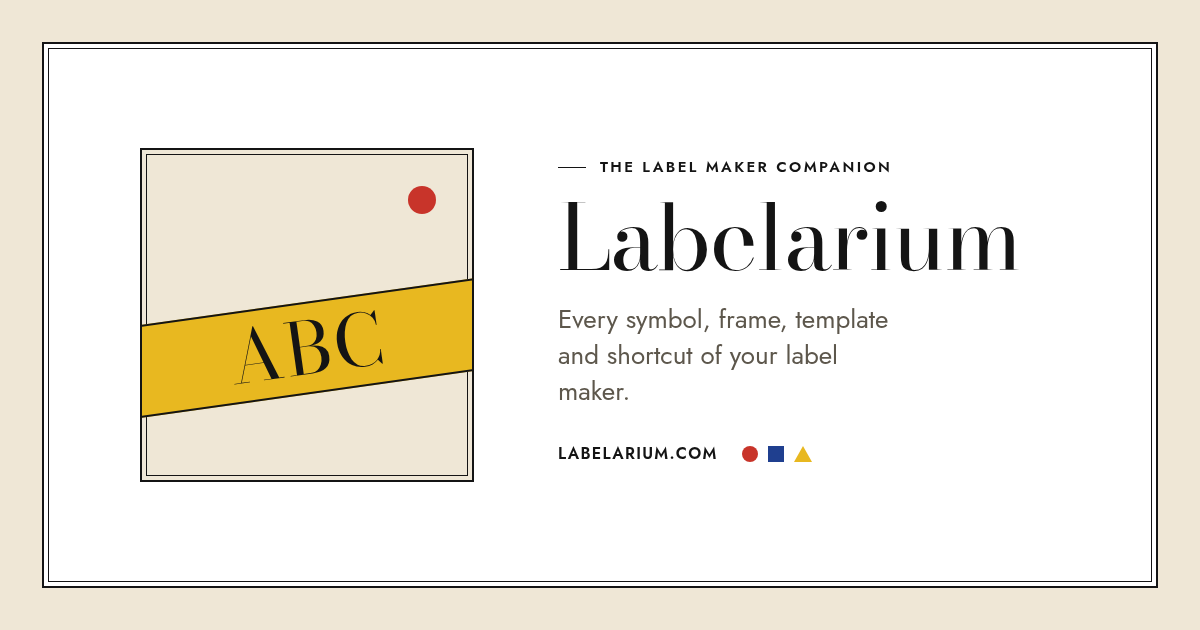
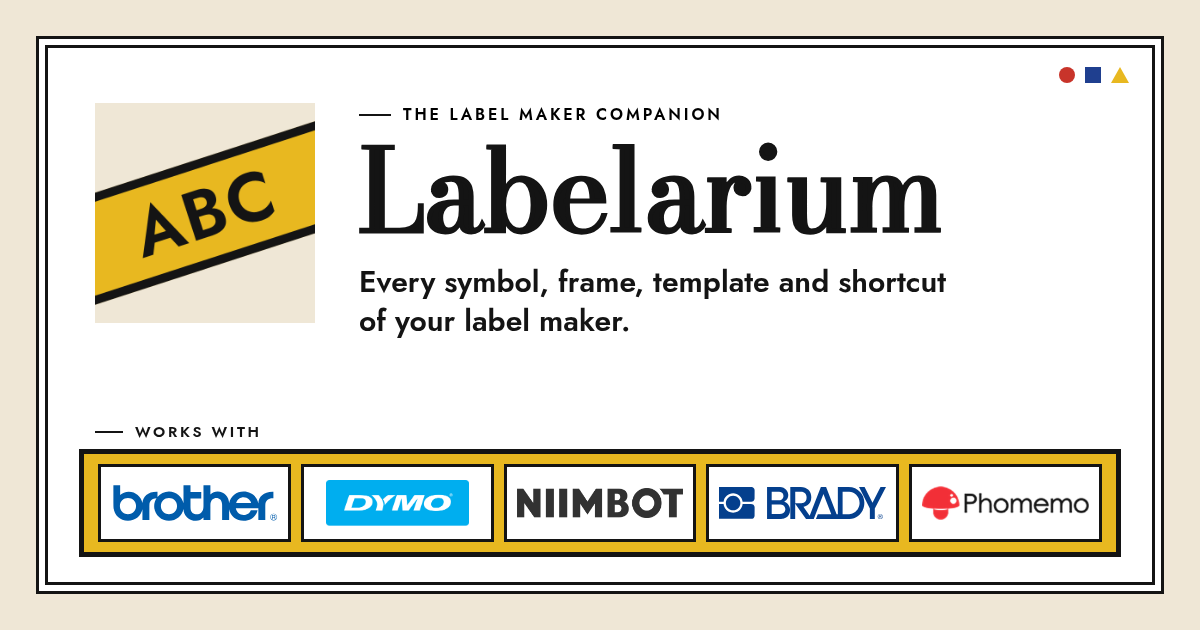
Refresh Open Graph card with brand tape strip
Ship the A2b OG: bigger Labelarium type, marks top-right, WORKS WITH
plus Brother/DYMO/NIIMBOT/Brady/Phomemo logos in stroked cells on a
yellow tape. Drop the domain footer. Keep HTML sources under docs/og.
Service worker stays on labelarium-v23.

diff --git a/docs/og/og-card.html b/docs/og/og-card.html
@@ -1,0 +1,71 @@
+<!DOCTYPE html>
+<html lang="en"><head><meta charset="utf-8">
+<style>
+@font-face { font-family: "Bodoni Moda"; src: url("../../fonts/bodoni-moda-400.ttf") format("truetype"); }
+@font-face { font-family: Jost; src: url("../../fonts/jost-600.ttf") format("truetype"); font-weight: 600; }
+* { box-sizing: border-box; margin: 0; padding: 0; }
+html, body { width: 1200px; height: 630px; overflow: hidden; background: #efe7d6; }
+.plate {
+  position: absolute; left: 36px; top: 36px; width: 1128px; height: 558px;
+  background: #fff; border: 3px solid #141414;
+  box-shadow: inset 0 0 0 6px #fff, inset 0 0 0 9px #141414;
+}
+.marks { position: absolute; top: 28px; right: 32px; display: flex; gap: 10px; align-items: center; }
+.dot { width: 16px; height: 16px; border-radius: 50%; background: #c8342a; }
+.sq { width: 16px; height: 16px; background: #1f3f8f; }
+.tri { width: 0; height: 0; border-left: 9px solid transparent; border-right: 9px solid transparent; border-bottom: 16px solid #e8b820; }
+.icon { position: absolute; left: 56px; top: 64px; width: 220px; height: 220px; object-fit: contain; }
+.copy { position: absolute; left: 320px; top: 64px; right: 80px; }
+.eyebrow {
+  display: flex; align-items: center; gap: 12px;
+  font-family: Jost, sans-serif; font-weight: 600; font-size: 16px; letter-spacing: 0.18em;
+  margin-bottom: 12px;
+}
+.eyebrow .rule { width: 32px; height: 2px; background: #141414; }
+h1 {
+  font-family: "Bodoni Moda", Didot, Georgia, serif;
+  font-size: 112px; line-height: 0.95; color: #141414;
+  -webkit-text-stroke: 1.4px #141414;
+}
+.tag {
+  margin-top: 18px;
+  font-family: Jost, sans-serif; font-weight: 600; font-size: 30px; line-height: 1.3; color: #141414;
+}
+.works {
+  position: absolute; left: 56px; bottom: 148px;
+  font-family: Jost, sans-serif; font-weight: 600; font-size: 15px;
+  letter-spacing: 0.18em; color: #141414;
+  display: flex; align-items: center; gap: 12px;
+}
+.works .rule { width: 28px; height: 2px; background: #141414; }
+.tape {
+  position: absolute; left: 40px; right: 40px; bottom: 34px; height: 108px;
+  background: #e8b820; border: 5px solid #141414;
+  display: flex; align-items: center; justify-content: space-between;
+  padding: 0 14px; gap: 10px;
+}
+.cell {
+  flex: 1; height: 78px; background: #fff; border: 3px solid #141414;
+  display: flex; align-items: center; justify-content: center; padding: 8px 10px;
+}
+.cell img { max-height: 46px; max-width: 100%; object-fit: contain; }
+</style></head>
+<body>
+  <div class="plate">
+    <div class="marks"><div class="dot"></div><div class="sq"></div><div class="tri"></div></div>
+    <img class="icon" src="icon-512.png" alt="">
+    <div class="copy">
+      <div class="eyebrow"><span class="rule"></span>THE LABEL MAKER COMPANION</div>
+      <h1>Labelarium</h1>
+      <p class="tag">Every symbol, frame, template and shortcut<br>of your label maker.</p>
+    </div>
+    <div class="works"><span class="rule"></span>WORKS WITH</div>
+    <div class="tape">
+      <div class="cell"><img src="logos/brother.svg" alt="Brother"></div>
+      <div class="cell"><img src="logos/dymo.png" alt="DYMO"></div>
+      <div class="cell"><img src="logos/niimbot-en.png" alt="NIIMBOT"></div>
+      <div class="cell"><img src="logos/brady.svg" alt="Brady"></div>
+      <div class="cell"><img src="logos/phomemo-ink.png" alt="Phomemo"></div>
+    </div>
+  </div>
+</body></html>

diff --git a/docs/og/SOURCES.md b/docs/og/SOURCES.md
@@ -1,0 +1,28 @@
+# Labelarium OG lab sources
+
+Two 1200×630 social cards, rendered from HTML in this folder.
+
+- `og-brands-logos.html` → `og-brands-logos.png` (official brand marks)
+- `og-brands-type.html` → `og-brands-type.png` (names in Labelarium type)
+
+Preview copies: `og-brands-logos-preview.png`, `og-brands-type-preview.png`.
+
+App icon: `icon-512.png` (new ABC tape mark, warm paper, no inner plate, no red LED). Same mark as `/workspace/wt-seo-og/icons/icon-512.png`.
+
+Fonts: local `fonts/` (Bodoni Moda 400, Jost 400/500/600), TTF and WOFF2.
+
+Render: Chromium at device scale 2, then Lanczos to exactly 1200×630.
+
+## Logo provenance
+
+Trademark note: logos identify supported label-maker brands on an OSS companion site (nominative use). Kept modest in a strip. Rights remain with the respective owners. Do not treat this folder as a licence to reuse the marks elsewhere.
+
+| Brand   | Asset used in the card                         | Provenance |
+|---------|-------------------------------------------------|------------|
+| Brother | `logos/brother.svg` (PNG sibling `brother.png`) | Wikimedia Commons [File:Brother logo.svg](https://commons.wikimedia.org/wiki/File:Brother_logo.svg) |
+| DYMO    | `logos/dymo.png` (SVG sibling `dymo.svg`)       | Wikimedia Commons [File:DYMO logo.svg](https://commons.wikimedia.org/wiki/File:DYMO_logo.svg). Cyan rounded badge is the official lockup; keep the plate. |
+| Brady   | `logos/brady.svg` (PNG sibling `brady.png`)     | Wikimedia Commons [File:Brady Corporation logo.svg](https://commons.wikimedia.org/wiki/File:Brady_Corporation_logo.svg) |
+| NIIMBOT | `logos/niimbot-en.png`                          | Official NIIMBOT Brand Kit (`NIIMBOT-Logo.rar` via niimbot.com `/us/brandInfo`). English crop of the horizontal black wordmark. Kit terms ask written consent for marketing use; used here only to identify supported devices. `niimbot-en-h.png` is a smaller export of the same crop. |
+| Phomemo | `logos/phomemo-ink.png`                         | Official site header mark `phomemo.com/cdn/shop/files/Phomemo-logo_200.png`, background cleared, wordmark mapped to ink `#141414`. Mushroom stays brand red. |
+
+No marks were redrawn or invented.

diff --git a/docs/og/README.md b/docs/og/README.md
@@ -1,0 +1,1 @@
+Source for icons/og.png. Open og-card.html in a browser at 1200x630 to re-export.
